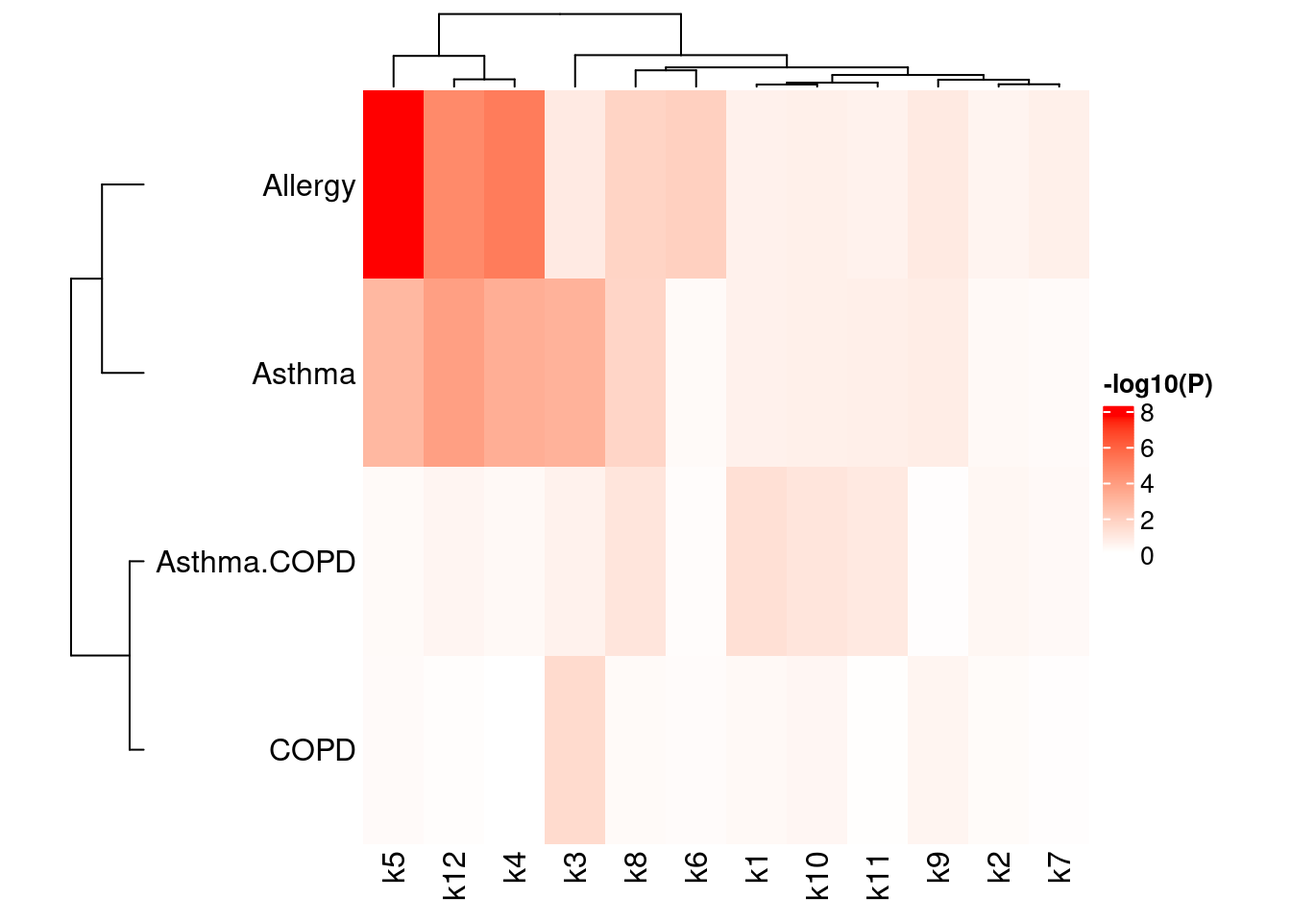
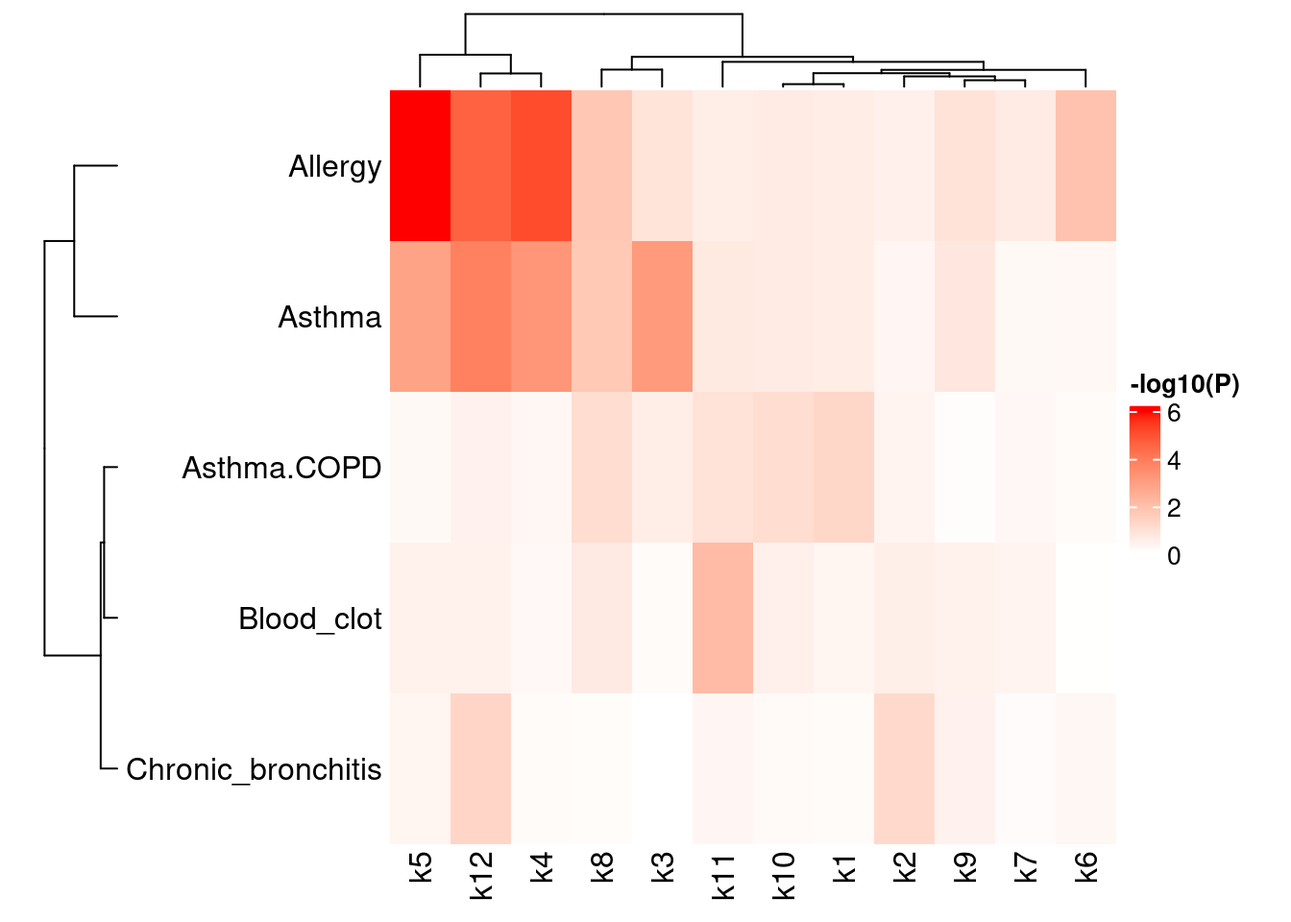
Build site.

diff --git a/docs/test_magma.html b/docs/test_magma.html
@@ -11,7 +11,7 @@
 
 <meta name="author" content="Jing Gu" />
 
-<meta name="date" content="2024-10-01" />
+<meta name="date" content="2024-10-02" />
 
 <title>A testrun for MAGMA</title>
 
@@ -370,7 +370,7 @@ div.tocify {
 
 <h1 class="title toc-ignore">A testrun for MAGMA</h1>
 <h4 class="author">Jing Gu</h4>
-<h4 class="date">2024-10-01</h4>
+<h4 class="date">2024-10-02</h4>
 
 </div>
 
@@ -399,7 +399,7 @@ class="glyphicon glyphicon-ok text-success" aria-hidden="true"></span>
 <div class="tab-content">
 <div id="summary" class="tab-pane fade in active">
 <p>
-<strong>Last updated:</strong> 2024-10-01
+<strong>Last updated:</strong> 2024-10-02
 </p>
 <p>
 <strong>Checks:</strong> <span
@@ -530,15 +530,15 @@ project makes it easier to run your code on other machines.</p>
 <div class="panel panel-default">
 <div class="panel-heading">
 <p class="panel-title">
-<a data-toggle="collapse" data-parent="#workflowr-checks" href="#strongRepositoryversionstrongahrefhttpsgithubcomj3gulunglymphscMultiomicstree99afc0f5e470e302561d449b36c2ced652826063targetblank99afc0fa">
+<a data-toggle="collapse" data-parent="#workflowr-checks" href="#strongRepositoryversionstrongahrefhttpsgithubcomj3gulunglymphscMultiomicstree9d263ca6f60d18e69ca9bf764b2b4f3f1138818btargetblank9d263caa">
 <span class="glyphicon glyphicon-ok text-success"
 aria-hidden="true"></span> <strong>Repository version:</strong>
-<a href="https://github.com/j3gu/lung_lymph_scMultiomics/tree/99afc0f5e470e302561d449b36c2ced652826063" target="_blank">99afc0f</a>
+<a href="https://github.com/j3gu/lung_lymph_scMultiomics/tree/9d263ca6f60d18e69ca9bf764b2b4f3f1138818b" target="_blank">9d263ca</a>
 </a>
 </p>
 </div>
 <div
[2 lines of base64/hex data omitted]
 class="panel-collapse collapse">
 <div class="panel-body">
 <p>
@@ -548,7 +548,7 @@ reproducibility.
 </p>
 <p>
 The results in this page were generated with repository version
-<a href="https://github.com/j3gu/lung_lymph_scMultiomics/tree/99afc0f5e470e302561d449b36c2ced652826063" target="_blank">99afc0f</a>.
+<a href="https://github.com/j3gu/lung_lymph_scMultiomics/tree/9d263ca6f60d18e69ca9bf764b2b4f3f1138818b" target="_blank">9d263ca</a>.
 See the <em>Past versions</em> tab to see a history of the changes made
 to the R Markdown and HTML files.
 </p>
@@ -565,7 +565,6 @@ were generated:
 Ignored files:
     Ignored:    analysis/.RData
     Ignored:    analysis/.Rhistory
-    Ignored:    analysis/figure/
 
 Untracked files:
     Untracked:  analysis/.ipynb_checkpoints/
@@ -576,6 +575,7 @@ Untracked files:
     Untracked:  analysis/u19_regulon_enrichment.Rmd
     Untracked:  analysis/ukb-a-446.log
     Untracked:  analysis/ukb-a-446_GO_immune.log
+    Untracked:  code/run_magma.sh
     Untracked:  code/run_magma/
     Untracked:  data/DA_peaks_Tsub_vs_others.RDS
     Untracked:  data/DA_peaks_by_cell_type.RDS
@@ -658,6 +658,57 @@ Message
 </tr>
 </thead>
 <tbody>
+<tr>
+<td>
+Rmd
+</td>
+<td>
+<a href="https://github.com/j3gu/lung_lymph_scMultiomics/blob/9d263ca6f60d18e69ca9bf764b2b4f3f1138818b/analysis/test_magma.Rmd" target="_blank">9d263ca</a>
+</td>
+<td>
+Jing Gu
+</td>
+<td>
+2024-10-02
+</td>
+<td>
+expanded to other immune diseases
+</td>
+</tr>
+<tr>
+<td>
+Rmd
+</td>
+<td>
+<a href="https://github.com/j3gu/lung_lymph_scMultiomics/blob/5cf8c154178788d712b7c960ba7e224ae09ede86/analysis/test_magma.Rmd" target="_blank">5cf8c15</a>
+</td>
+<td>
+Jing Gu
+</td>
+<td>
+2024-10-02
+</td>
+<td>
+expanded to other immune diseases
+</td>
+</tr>
+<tr>
+<td>
+html
+</td>
+<td>
+<a href="https://rawcdn.githack.com/j3gu/lung_lymph_scMultiomics/378411892c2e6b0296d3f407b98e3b98b171e62c/docs/test_magma.html" target="_blank">3784118</a>
+</td>
+<td>
+Jing Gu
+</td>
+<td>
+2024-10-01
+</td>
+<td>
+Build site.
+</td>
+</tr>
 <tr>
 <td>
 Rmd
@@ -948,6 +999,43 @@ full ones.</li>
 <div class="datatables html-widget html-fill-item" id="htmlwidget-e3dd2f708ffc37673119" style="width:100%;height:auto;"></div>
 <script type="application/json" data-for="htmlwidget-e3dd2f708ffc37673119">{"x":{"filter":"none","vertical":false,"data":[["1","2","3","4","5","6","7","8","9","10","11","12"],["k10","k11","k12","k1","k2","k3","k4","k5","k6","k7","k8","k9"],["SET","SET","SET","SET","SET","SET","SET","SET","SET","SET","SET","SET"],[766,724,685,1689,187,888,750,593,491,358,529,155],[0.082533,0.12265,0.10569,-0.050649,0.031389,0.11296,0.14575,0.21682,0.1278,0.070092,0.07594099999999999,0.17778],[0.017551,0.02539,0.02131,-0.015506,0.0033596,0.02576,0.030685,0.040796,0.021952,0.010324,0.013523,0.017341],[0.041514,0.040226,0.041287,0.028165,0.073703,0.036235,0.040046,0.043091,0.045679,0.049731,0.042142,0.079803],[0.023409,0.0011502,0.0052389,0.96392,0.3351,0.00091399,0.00013694,2.4567e-07,0.002576,0.07936600000000001,0.035781,0.012955]],"container":"<table class=\"display\">\n  <thead>\n    <tr>\n      <th> <\/th>\n      <th>VARIABLE<\/th>\n      <th>TYPE<\/th>\n      <th>NGENES<\/th>\n      <th>BETA<\/th>\n      <th>BETA_STD<\/th>\n      <th>SE<\/th>\n      <th>P<\/th>\n    <\/tr>\n  <\/thead>\n<\/table>","options":{"columnDefs":[{"className":"dt-right","targets":[3,4,5,6,7]},{"orderable":false,"targets":0},{"name":" ","targets":0},{"name":"VARIABLE","targets":1},{"name":"TYPE","targets":2},{"name":"NGENES","targets":3},{"name":"BETA","targets":4},{"name":"BETA_STD","targets":5},{"name":"SE","targets":6},{"name":"P","targets":7}],"order":[],"autoWidth":false,"orderClasses":false}},"evals":[],"jsHooks":[]}</script>
 <p><img src="figure/test_magma.Rmd/unnamed-chunk-6-2.png" width="672" style="display: block; margin: auto;" /></p>
+<p>
+<button type="button" class="btn btn-default btn-xs btn-workflowr btn-workflowr-fig" data-toggle="collapse" data-target="#fig-unnamed-chunk-6-2">
+Past versions of unnamed-chunk-6-2.png
+</button>
+</p>
+<div id="fig-unnamed-chunk-6-2" class="collapse">
+<div class="table-responsive">
+<table class="table table-condensed table-hover">
+<thead>
+<tr>
+<th>
+Version
+</th>
+<th>
+Author
+</th>
+<th>
+Date
+</th>
+</tr>
+</thead>
+<tbody>
+<tr>
+<td>
+<a href="https://github.com/j3gu/lung_lymph_scMultiomics/blob/378411892c2e6b0296d3f407b98e3b98b171e62c/docs/figure/test_magma.Rmd/unnamed-chunk-6-2.png" target="_blank">3784118</a>
+</td>
+<td>
+Jing Gu
+</td>
+<td>
+2024-10-01
+</td>
+</tr>
+</tbody>
+</table>
+</div>
+</div>
 </div>
 <div id="testing-on-top-100-genes-from-each-topic"
 class="section level3">
@@ -964,6 +1052,10 @@ alt="MAGMA controlling for type 1 error rates for gene-set analysis" /></p>
 <div id="summarizing-enrichment-results-by-traits"
 class="section level3">
 <h3>Summarizing enrichment results by traits</h3>
+<p>Lung related immune diseases from UK Biobank: Blood clot, DVT,
+emphysema (chronic bronchitis), asthma, rhinitis eczema/allergy
+diagnosed by doctor</p>
+<p>Sample size: 336,782.</p>
 <p>Instead of all DE genes, I used top 100 up-regulated genes ranked by
 z scores to test the enrichment for each topic across immune traits. For
 Asthma, now we see only k3, k4, k5 and k12 (4 out of 12) topics show
@@ -990,8 +1082,45 @@ This message can be suppressed by:
   suppressPackageStartupMessages(library(ComplexHeatmap))
 ========================================</code></pre>
 <div class="datatables html-widget html-fill-item" id="htmlwidget-9c8a3c9d2f6933833caa" style="width:100%;height:auto;"></div>
-<script type="application/json" data-for="htmlwidget-9c8a3c9d2f6933833caa">{"x":{"filter":"none","vertical":false,"data":[["1","2","3","4","5","6","7","8","9","10","11","12","13","14","15","16","17","18","19","20","21","22","23","24","25","26","27","28","29","30","31","32","33","34","35","36","37","38","39","40","41","42","43","44","45","46","47","48"],["Asthma","Asthma","Asthma","Asthma","Asthma","Asthma","Asthma","Asthma","Asthma","Asthma","Asthma","Asthma","Allergy","Allergy","Allergy","Allergy","Allergy","Allergy","Allergy","Allergy","Allergy","Allergy","Allergy","Allergy","COPD","COPD","COPD","COPD","COPD","COPD","COPD","COPD","COPD","COPD","COPD","COPD","Asthma/COPD","Asthma/COPD","Asthma/COPD","Asthma/COPD","Asthma/COPD","Asthma/COPD","Asthma/COPD","Asthma/COPD","Asthma/COPD","Asthma/COPD","Asthma/COPD","Asthma/COPD"],["k10","k11","k12","k1","k2","k3","k4","k5","k6","k7","k8","k9","k10","k11","k12","k1","k2","k3","k4","k5","k6","k7","k8","k9","k10","k11","k12","k1","k2","k3","k4","k5","k6","k7","k8","k9","k10","k11","k12","k1","k2","k3","k4","k5","k6","k7","k8","k9"],[0.11709,0.10652,0.11026,0.11226,0.10049,0.11051,0.11831,0.10728,0.10741,0.093942,0.10333,0.11077,0.12091,0.10999,0.11384,0.11592,0.10377,0.11415,0.12214,0.1107,0.1109,0.09700499999999999,0.1067,0.11438,0.099243,0.090611,0.09725200000000001,0.098687,0.097055,0.09250899999999999,0.10408,0.09846299999999999,0.10106,0.09753299999999999,0.099441,0.097576,0.097332,0.08364099999999999,0.089561,0.094883,0.080619,0.089796,0.09733600000000001,0.085784,0.088461,0.07869900000000001,0.081081,0.09475],[0.22491,0.2048,0.00014474,0.24919,0.5043,0.00075885,0.00055155,0.0013446,0.55702,0.60118,0.019129,0.16956,0.22138,0.27165,2.2962e-05,0.25108,0.33044,0.13559,7.4606e-06,1.7542e-08,0.012081,0.22042,0.016831,0.12772,0.41669,0.8276,0.73554,0.5067,0.60875,0.032504,0.92438,0.6021,0.66439,0.80219,0.59483,0.35562,0.082482,0.11796,0.37695,0.052548,0.4206,0.27004,0.51655,0.59372,0.7008,0.54796,0.083135,0.79687]],"container":"<table class=\"display\">\n  <thead>\n    <tr>\n      <th> <\/th>\n      <th>TRAIT<\/th>\n      <th>VARIABLE<\/th>\n      <th>SE<\/th>\n      <th>P<\/th>\n    <\/tr>\n  <\/thead>\n<\/table>","options":{"columnDefs":[{"className":"dt-right","targets":[3,4]},{"orderable":false,"targets":0},{"name":" ","targets":0},{"name":"TRAIT","targets":1},{"name":"VARIABLE","targets":2},{"name":"SE","targets":3},{"name":"P","targets":4}],"order":[],"autoWidth":false,"orderClasses":false}},"evals":[],"jsHooks":[]}</script>
+<script type="application/json" data-for="htmlwidget-9c8a3c9d2f6933833caa">{"x":{"filter":"none","vertical":false,"data":[["1","2","3","4","5","6","7","8","9","10","11","12","13","14","15","16","17","18","19","20","21","22","23","24","25","26","27","28","29","30","31","32","33","34","35","36","37","38","39","40","41","42","43","44","45","46","47","48","49","50","51","52","53","54","55","56","57","58","59","60"],["Asthma","Asthma","Asthma","Asthma","Asthma","Asthma","Asthma","Asthma","Asthma","Asthma","Asthma","Asthma","Allergy","Allergy","Allergy","Allergy","Allergy","Allergy","Allergy","Allergy","Allergy","Allergy","Allergy","Allergy","Blood_clot","Blood_clot","Blood_clot","Blood_clot","Blood_clot","Blood_clot","Blood_clot","Blood_clot","Blood_clot","Blood_clot","Blood_clot","Blood_clot","Chronic_bronchitis","Chronic_bronchitis","Chronic_bronchitis","Chronic_bronchitis","Chronic_bronchitis","Chronic_bronchitis","Chronic_bronchitis","Chronic_bronchitis","Chronic_bronchitis","Chronic_bronchitis","Chronic_bronchitis","Chronic_bronchitis","Asthma/COPD","Asthma/COPD","Asthma/COPD","Asthma/COPD","Asthma/COPD","Asthma/COPD","Asthma/COPD","Asthma/COPD","Asthma/COPD","Asthma/COPD","Asthma/COPD","Asthma/COPD"],["k10","k11","k12","k1","k2","k3","k4","k5","k6","k7","k8","k9","k10","k11","k12","k1","k2","k3","k4","k5","k6","k7","k8","k9","k10","k11","k12","k1","k2","k3","k4","k5","k6","k7","k8","k9","k10","k11","k12","k1","k2","k3","k4","k5","k6","k7","k8","k9","k10","k11","k12","k1","k2","k3","k4","k5","k6","k7","k8","k9"],[0.11709,0.10652,0.11026,0.11226,0.10049,0.11051,0.11831,0.10728,0.10741,0.093942,0.10333,0.11077,0.12091,0.10999,0.11384,0.11592,0.10377,0.11415,0.12214,0.1107,0.1109,0.09700499999999999,0.1067,0.11438,0.10476,0.089812,0.09148000000000001,0.095376,0.088214,0.09120399999999999,0.1002,0.09458800000000001,0.08820600000000001,0.08678900000000001,0.088293,0.099009,0.10464,0.09142599999999999,0.091803,0.096085,0.088284,0.090527,0.10165,0.09038400000000001,0.093306,0.086614,0.088994,0.099554,0.097332,0.08364099999999999,0.089561,0.094883,0.080619,0.089796,0.09733600000000001,0.085784,0.088461,0.07869900000000001,0.081081,0.09475],[0.22491,0.2048,0.00014474,0.24919,0.5043,0.00075885,0.00055155,0.0013446,0.55702,0.60118,0.019129,0.16956,0.22138,0.27165,2.2962e-05,0.25108,0.33044,0.13559,7.4606e-06,1.7542e-08,0.012081,0.22042,0.016831,0.12772,0.6434800000000001,0.49338,0.047248,0.7049,0.063331,0.94279,0.68127,0.44429,0.52355,0.72293,0.7335700000000001,0.38192,0.33004,0.0072252,0.35038,0.47749,0.29041,0.70383,0.58123,0.36607,0.91495,0.43589,0.21459,0.34264,0.082482,0.11796,0.37695,0.052548,0.4206,0.27004,0.51655,0.59372,0.7008,0.54796,0.083135,0.79687]],"container":"<table class=\"display\">\n  <thead>\n    <tr>\n      <th> <\/th>\n      <th>TRAIT<\/th>\n      <th>VARIABLE<\/th>\n      <th>SE<\/th>\n      <th>P<\/th>\n    <\/tr>\n  <\/thead>\n<\/table>","options":{"columnDefs":[{"className":"dt-right","targets":[3,4]},{"orderable":false,"targets":0},{"name":" ","targets":0},{"name":"TRAIT","targets":1},{"name":"VARIABLE","targets":2},{"name":"SE","targets":3},{"name":"P","targets":4}],"order":[],"autoWidth":false,"orderClasses":false}},"evals":[],"jsHooks":[]}</script>
 <p><img src="figure/test_magma.Rmd/unnamed-chunk-9-2.png" width="672" style="display: block; margin: auto;" /></p>
+<p>
+<button type="button" class="btn btn-default btn-xs btn-workflowr btn-workflowr-fig" data-toggle="collapse" data-target="#fig-unnamed-chunk-9-2">
+Past versions of unnamed-chunk-9-2.png
+</button>
+</p>
+<div id="fig-unnamed-chunk-9-2" class="collapse">
+<div class="table-responsive">
+<table class="table table-condensed table-hover">
+<thead>
+<tr>
+<th>
+Version
+</th>
+<th>
+Author
+</th>
+<th>
+Date
+</th>
+</tr>
+</thead>
+<tbody>
+<tr>
+<td>
+<a href="https://github.com/j3gu/lung_lymph_scMultiomics/blob/378411892c2e6b0296d3f407b98e3b98b171e62c/docs/figure/test_magma.Rmd/unnamed-chunk-9-2.png" target="_blank">3784118</a>
+</td>
+<td>
+Jing Gu
+</td>
+<td>
+2024-10-01
+</td>
+</tr>
+</tbody>
+</table>
+</div>
+</div>
 <!-- Genes with high Z-scores (p < 0.05) are found to show enrichment in the following gene sets: -->
 <!-- * Regulation of signal transduction (adj.P = 0.01) from GO -->
 <!--   - RORA, GATA3, CDC42SE2, SREBF2 -->
@@ -1101,7 +1230,7 @@ class="section level3">
 <p>Topic 5 specific genes are enriched for tissue-resident genes,
 Treg/Th17 differentiation, and Th17 immune response.</p>
 <div class="datatables html-widget html-fill-item" id="htmlwidget-cdceef25ea5e4ed46489" style="width:100%;height:auto;"></div>
-<script type="application/json" data-for="htmlwidget-cdceef25ea5e4ed46489">{"x":{"filter":"none","vertical":false,"data":[["1","2","3","4","5","6","7","8","9","10","11","12","13","14","15","16","17","18","19","20"],["GOBP_T_CELL_ACTIVATION_INVOLVED_IN_IMMUNE_RESPONSE","Tissue_resident_lymphocytes","GOBP_T_HELPER_17_CELL_DIFFERENTIATION","GOBP_T_HELPER_17_TYPE_IMMUNE_RESPONSE","GOBP_REGULATORY_T_CELL_DIFFERENTIATION","GOBP_NEGATIVE_REGULATION_OF_REGULATORY_T_CELL_DIFFERENTIATION","GOBP_POSITIVE_REGULATION_OF_T_HELPER_2_CELL_DIFFERENTIATION","GOBP_T_HELPER_2_CELL_DIFFERENTIATION","GOBP_B_CELL_ACTIVATION_INVOLVED_IN_IMMUNE_RESPONSE","GOBP_REGULATION_OF_T_HELPER_17_TYPE_IMMUNE_RESPONSE","GOBP_POSITIVE_REGULATION_OF_T_HELPER_17_TYPE_IMMUNE_RESPONSE","GOBP_REGULATION_OF_T_HELPER_17_CELL_DIFFERENTIATION","GOBP_POSITIVE_REGULATION_OF_T_HELPER_17_CELL_DIFFERENTIATION","GOBP_REGULATION_OF_T_HELPER_2_CELL_DIFFERENTIATION","GOBP_POSITIVE_REGULATION_OF_REGULATORY_T_CELL_DIFFERENTIATION","GOBP_REGULATION_OF_CD4_POSITIVE_CD25_POSITIVE_ALPHA_BETA_REGULATORY_T_CELL_DIFFERENTIATION","GOBP_POSITIVE_REGULATION_OF_T_HELPER_2_CELL_CYTOKINE_PRODUCTION","GOBP_NEGATIVE_REGULATION_OF_T_HELPER_17_TYPE_IMMUNE_RESPONSE","GOBP_T_HELPER_2_CELL_CYTOKINE_PRODUCTION","GOBP_NEGATIVE_REGULATION_OF_T_HELPER_2_CELL_DIFFERENTIATION"],["TNFSF4,STAT4,RORA,GATA3,STAT3,ZFPM1,SEMA4A,JAK1,EP300,ZC3H12A,PSEN1,IL4R,RELB,MALT1","CTLA4,RGCC,IL2RB,PDCD1,LMNA","RORA,STAT3,JAK1,EP300,ZC3H12A,MALT1","RORA,STAT3,ARID5A,JAK1,EP300,ZC3H12A,MALT1","TNFSF4,CTLA4,TGFB1,KLHL25,CD28,TOX","TNFSF4,CTLA4","TNFSF4,IL4R","TNFSF4,GATA3,IL4R","TNFSF4,PTK2B,DOCK10,ITM2A,TGFB1,PLCG2,CD28","ARID5A,EP300,ZC3H12A,MALT1","ARID5A,EP300,MALT1","EP300,ZC3H12A,MALT1","EP300,MALT1","TNFSF4,IL4R","TGFB1,KLHL25","KLHL25","GATA3","ZC3H12A","GATA3",""],[0,0.0001,0.0009,0.0012,0.0017,0.0109,0.0219,0.0223,0.0236,0.0254,0.0258,0.0426,0.0525,0.0616,0.1855,0.2166,0.2694,0.3186,0.4662,1],[4.0548,12.9057,6.0885,4.8558,5.3261,18.8396,11.3035,5.6586,2.6143,3.9064,5.3049,4.2432,6.2795,5.6511,2.6896,4.7029,3.5271,2.8214,1.6591,0]],"container":"<table class=\"display\">\n  <thead>\n    <tr>\n      <th> <\/th>\n      <th>GOTerm<\/th>\n      <th>GenesInSet<\/th>\n      <th>P<\/th>\n      <th>OR<\/th>\n    <\/tr>\n  <\/thead>\n<\/table>","options":{"columnDefs":[{"className":"dt-right","targets":[3,4]},{"orderable":false,"targets":0},{"name":" ","targets":0},{"name":"GOTerm","targets":1},{"name":"GenesInSet","targets":2},{"name":"P","targets":3},{"name":"OR","targets":4}],"order":[],"autoWidth":false,"orderClasses":false}},"evals":[],"jsHooks":[]}</script>
+<script type="application/json" data-for="htmlwidget-cdceef25ea5e4ed46489">{"x":{"filter":"none","vertical":false,"data":[["1","2","3","4","5","6","7","8","9","10","11","12","13","14","15","16","17","18","19","20"],["GOBP_T_CELL_ACTIVATION_INVOLVED_IN_IMMUNE_RESPONSE","Tissue_resident_lymphocytes","GOBP_T_HELPER_17_CELL_DIFFERENTIATION","GOBP_T_HELPER_17_TYPE_IMMUNE_RESPONSE","GOBP_REGULATORY_T_CELL_DIFFERENTIATION","GOBP_REGULATION_OF_T_HELPER_17_TYPE_IMMUNE_RESPONSE","GOBP_POSITIVE_REGULATION_OF_T_HELPER_17_TYPE_IMMUNE_RESPONSE","GOBP_REGULATION_OF_T_HELPER_17_CELL_DIFFERENTIATION","GOBP_POSITIVE_REGULATION_OF_T_HELPER_17_CELL_DIFFERENTIATION","GOBP_B_CELL_ACTIVATION_INVOLVED_IN_IMMUNE_RESPONSE","GOBP_T_HELPER_2_CELL_DIFFERENTIATION","GOBP_NEGATIVE_REGULATION_OF_REGULATORY_T_CELL_DIFFERENTIATION","GOBP_POSITIVE_REGULATION_OF_REGULATORY_T_CELL_DIFFERENTIATION","GOBP_POSITIVE_REGULATION_OF_T_HELPER_2_CELL_DIFFERENTIATION","GOBP_REGULATION_OF_CD4_POSITIVE_CD25_POSITIVE_ALPHA_BETA_REGULATORY_T_CELL_DIFFERENTIATION","GOBP_POSITIVE_REGULATION_OF_T_HELPER_2_CELL_CYTOKINE_PRODUCTION","GOBP_NEGATIVE_REGULATION_OF_T_HELPER_17_TYPE_IMMUNE_RESPONSE","GOBP_REGULATION_OF_T_HELPER_2_CELL_DIFFERENTIATION","GOBP_T_HELPER_2_CELL_CYTOKINE_PRODUCTION","GOBP_NEGATIVE_REGULATION_OF_T_HELPER_2_CELL_DIFFERENTIATION"],["STAT4,RORA,GATA3,STAT3,ZFPM1,SEMA4A,JAK1,EP300,ZC3H12A,PSEN1,IL4R,RELB,MALT1","CTLA4,RGCC,IL2RB,PDCD1,LMNA","RORA,STAT3,JAK1,EP300,ZC3H12A,MALT1","RORA,STAT3,ARID5A,JAK1,EP300,ZC3H12A,MALT1","CTLA4,TGFB1,KLHL25,CD28,TOX","ARID5A,EP300,ZC3H12A,MALT1","ARID5A,EP300,MALT1","EP300,ZC3H12A,MALT1","EP300,MALT1","PTK2B,DOCK10,ITM2A,TGFB1,PLCG2,CD28","GATA3,IL4R","CTLA4","TGFB1,KLHL25","IL4R","KLHL25","GATA3","ZC3H12A","IL4R","GATA3",""],[0.0001,0.0001,0.0009,0.0012,0.0092,0.0254,0.0258,0.0426,0.0525,0.06510000000000001,0.1251,0.16,0.1855,0.2166,0.2166,0.2694,0.3186,0.3419,0.4662,1],[3.7207,12.9057,6.0885,4.8558,4.2968,3.9064,5.3049,4.2432,6.2795,2.2081,3.5312,7.0547,2.6896,4.7029,4.7029,3.5271,2.8214,2.5649,1.6591,0]],"container":"<table class=\"display\">\n  <thead>\n    <tr>\n      <th> <\/th>\n      <th>GOTerm<\/th>\n      <th>GenesInSet<\/th>\n      <th>P<\/th>\n      <th>OR<\/th>\n    <\/tr>\n  <\/thead>\n<\/table>","options":{"columnDefs":[{"className":"dt-right","targets":[3,4]},{"orderable":false,"targets":0},{"name":" ","targets":0},{"name":"GOTerm","targets":1},{"name":"GenesInSet","targets":2},{"name":"P","targets":3},{"name":"OR","targets":4}],"order":[],"autoWidth":false,"orderClasses":false}},"evals":[],"jsHooks":[]}</script>
 </div>
 <div id="testing-on-genes-having-high-asthma-magma-z-scores"
 class="section level3">
@@ -1109,35 +1238,71 @@ class="section level3">
 <p>Input: Topic 5 genes with MAGMA Z score &gt;= 1.64, background genes
 for topic modeling (~17K) Enrichment test: Fisher’s exact test</p>
 <p>Topic 5 specific genes with high Asthma z scores are enriched for
-tissue-resident genes, Treg/Th17/Th2 differentiation, and Th17 immune
-response.</p>
+tissue-resident genes, Treg/Th17 differentiation, and T-cell activation
+involved in immune response. If the ligand of TNFRSF4 receptor included
+in the test set, Th2 differentiation would also pass the threshold.</p>
 <div class="datatables html-widget html-fill-item" id="htmlwidget-090d9e47ec4e036f35e9" style="width:100%;height:auto;"></div>
-<script type="application/json" data-for="htmlwidget-090d9e47ec4e036f35e9">{"x":{"filter":"none","vertical":false,"data":[["1","2","3","4","5","6","7","8","9","10","11","12","13","14","15","16","17","18","19","20"],["GOBP_T_CELL_ACTIVATION_INVOLVED_IN_IMMUNE_RESPONSE","GOBP_REGULATORY_T_CELL_DIFFERENTIATION","GOBP_T_HELPER_2_CELL_DIFFERENTIATION","Tissue_resident_lymphocytes","GOBP_NEGATIVE_REGULATION_OF_REGULATORY_T_CELL_DIFFERENTIATION","GOBP_POSITIVE_REGULATION_OF_T_HELPER_2_CELL_DIFFERENTIATION","GOBP_T_HELPER_17_CELL_DIFFERENTIATION","GOBP_REGULATION_OF_T_HELPER_2_CELL_DIFFERENTIATION","GOBP_T_HELPER_17_TYPE_IMMUNE_RESPONSE","GOBP_REGULATION_OF_CD4_POSITIVE_CD25_POSITIVE_ALPHA_BETA_REGULATORY_T_CELL_DIFFERENTIATION","GOBP_POSITIVE_REGULATION_OF_T_HELPER_2_CELL_CYTOKINE_PRODUCTION","GOBP_POSITIVE_REGULATION_OF_T_HELPER_17_CELL_DIFFERENTIATION","GOBP_T_HELPER_2_CELL_CYTOKINE_PRODUCTION","GOBP_POSITIVE_REGULATION_OF_T_HELPER_17_TYPE_IMMUNE_RESPONSE","GOBP_POSITIVE_REGULATION_OF_REGULATORY_T_CELL_DIFFERENTIATION","GOBP_REGULATION_OF_T_HELPER_17_CELL_DIFFERENTIATION","GOBP_REGULATION_OF_T_HELPER_17_TYPE_IMMUNE_RESPONSE","GOBP_B_CELL_ACTIVATION_INVOLVED_IN_IMMUNE_RESPONSE","GOBP_NEGATIVE_REGULATION_OF_T_HELPER_2_CELL_DIFFERENTIATION","GOBP_NEGATIVE_REGULATION_OF_T_HELPER_17_TYPE_IMMUNE_RESPONSE"],["GATA3,RORA,IL4R,TNFSF4,JAK1,EP300","TNFSF4,TOX,CTLA4,KLHL25","GATA3,IL4R,TNFSF4","IL2RB,CTLA4,PDCD1","TNFSF4,CTLA4","IL4R,TNFSF4","RORA,JAK1,EP300","IL4R,TNFSF4","RORA,JAK1,EP300","KLHL25","GATA3","EP300","GATA3","EP300","KLHL25","EP300","EP300","TNFSF4","",""],[0,0.0001,0.0001,0.0001,0.0003,0.0005999999999999999,0.0008,0.0019,0.0023,0.0377,0.0483,0.0587,0.09420000000000001,0.0992,0.1188,0.1188,0.166,0.367,1,1],[10.7833,22.2054,37.3555,43.0939,123.0514,73.8925,18.0809,36.9563,12.4476,30.5126,22.8748,18.3087,10.7716,10.1702,8.3241,8.3241,5.7182,2.2255,0,0]],"container":"<table class=\"display\">\n  <thead>\n    <tr>\n      <th> <\/th>\n      <th>GOTerm<\/th>\n      <th>GenesInSet<\/th>\n      <th>P<\/th>\n      <th>OR<\/th>\n    <\/tr>\n  <\/thead>\n<\/table>","options":{"columnDefs":[{"className":"dt-right","targets":[3,4]},{"orderable":false,"targets":0},{"name":" ","targets":0},{"name":"GOTerm","targets":1},{"name":"GenesInSet","targets":2},{"name":"P","targets":3},{"name":"OR","targets":4}],"order":[],"autoWidth":false,"orderClasses":false}},"evals":[],"jsHooks":[]}</script>
+<script type="application/json" data-for="htmlwidget-090d9e47ec4e036f35e9">{"x":{"filter":"none","vertical":false,"data":[["1","2","3","4","5","6","7","8","9","10","11","12","13","14","15","16","17","18","19","20"],["Tissue_resident_lymphocytes","GOBP_T_CELL_ACTIVATION_INVOLVED_IN_IMMUNE_RESPONSE","GOBP_T_HELPER_17_CELL_DIFFERENTIATION","GOBP_REGULATORY_T_CELL_DIFFERENTIATION","GOBP_T_HELPER_17_TYPE_IMMUNE_RESPONSE","GOBP_T_HELPER_2_CELL_DIFFERENTIATION","GOBP_NEGATIVE_REGULATION_OF_REGULATORY_T_CELL_DIFFERENTIATION","GOBP_POSITIVE_REGULATION_OF_T_HELPER_2_CELL_DIFFERENTIATION","GOBP_REGULATION_OF_CD4_POSITIVE_CD25_POSITIVE_ALPHA_BETA_REGULATORY_T_CELL_DIFFERENTIATION","GOBP_POSITIVE_REGULATION_OF_T_HELPER_2_CELL_CYTOKINE_PRODUCTION","GOBP_POSITIVE_REGULATION_OF_T_HELPER_17_CELL_DIFFERENTIATION","GOBP_REGULATION_OF_T_HELPER_2_CELL_DIFFERENTIATION","GOBP_T_HELPER_2_CELL_CYTOKINE_PRODUCTION","GOBP_POSITIVE_REGULATION_OF_T_HELPER_17_TYPE_IMMUNE_RESPONSE","GOBP_POSITIVE_REGULATION_OF_REGULATORY_T_CELL_DIFFERENTIATION","GOBP_REGULATION_OF_T_HELPER_17_CELL_DIFFERENTIATION","GOBP_REGULATION_OF_T_HELPER_17_TYPE_IMMUNE_RESPONSE","GOBP_NEGATIVE_REGULATION_OF_T_HELPER_2_CELL_DIFFERENTIATION","GOBP_B_CELL_ACTIVATION_INVOLVED_IN_IMMUNE_RESPONSE","GOBP_NEGATIVE_REGULATION_OF_T_HELPER_17_TYPE_IMMUNE_RESPONSE"],["IL2RB,CTLA4,PDCD1","GATA3,RORA,IL4R,JAK1,EP300","RORA,JAK1,EP300","TOX,CTLA4,KLHL25","RORA,JAK1,EP300","GATA3,IL4R","CTLA4","IL4R","KLHL25","GATA3","EP300","IL4R","GATA3","EP300","KLHL25","EP300","EP300","","",""],[0.0001,0.0004,0.0008,0.0011,0.0022,0.0042,0.0268,0.0374,0.0374,0.0478,0.0581,0.06320000000000001,0.09329999999999999,0.0982,0.1177,0.1177,0.1644,1,1,1],[43.5537,8.9017,18.2741,16.1847,12.5828,23.352,46.2349,30.8359,30.8359,23.1147,18.5046,16.8274,10.8861,10.2777,8.4087,8.4087,5.779,0,0,0]],"container":"<table class=\"display\">\n  <thead>\n    <tr>\n      <th> <\/th>\n      <th>GOTerm<\/th>\n      <th>GenesInSet<\/th>\n      <th>P<\/th>\n      <th>OR<\/th>\n    <\/tr>\n  <\/thead>\n<\/table>","options":{"columnDefs":[{"className":"dt-right","targets":[3,4]},{"orderable":false,"targets":0},{"name":" ","targets":0},{"name":"GOTerm","targets":1},{"name":"GenesInSet","targets":2},{"name":"P","targets":3},{"name":"OR","targets":4}],"order":[],"autoWidth":false,"orderClasses":false}},"evals":[],"jsHooks":[]}</script>
 </div>
 <div id="testing-on-genes-having-high-allergy-magma-z-scores"
 class="section level3">
 <h3>Testing on genes having high Allergy MAGMA Z scores</h3>
 <p>Input: Topic 5 genes with MAGMA Z score &gt;= 1.64, background genes
 for topic modeling (~17K) Enrichment test: Fisher’s exact test</p>
-<p>Topic 5 specific genes with high allergy z scores are enriched for T
-cell activation involved in immune response.</p>
+<p>Topic 5 specific genes with high allergy z scores are mainly enriched
+for T cell activation.</p>
 <div class="datatables html-widget html-fill-item" id="htmlwidget-3872b756936758f43822" style="width:100%;height:auto;"></div>
-<script type="application/json" data-for="htmlwidget-3872b756936758f43822">{"x":{"filter":"none","vertical":false,"data":[["1","2","3","4","5","6","7","8","9","10","11","12","13","14","15","16","17","18","19","20"],["GOBP_T_CELL_ACTIVATION_INVOLVED_IN_IMMUNE_RESPONSE","GOBP_T_HELPER_2_CELL_DIFFERENTIATION","GOBP_NEGATIVE_REGULATION_OF_REGULATORY_T_CELL_DIFFERENTIATION","GOBP_POSITIVE_REGULATION_OF_T_HELPER_2_CELL_DIFFERENTIATION","GOBP_REGULATION_OF_T_HELPER_2_CELL_DIFFERENTIATION","Tissue_resident_lymphocytes","GOBP_T_HELPER_17_CELL_DIFFERENTIATION","GOBP_REGULATORY_T_CELL_DIFFERENTIATION","GOBP_T_HELPER_17_TYPE_IMMUNE_RESPONSE","GOBP_POSITIVE_REGULATION_OF_T_HELPER_2_CELL_CYTOKINE_PRODUCTION","GOBP_POSITIVE_REGULATION_OF_T_HELPER_17_CELL_DIFFERENTIATION","GOBP_B_CELL_ACTIVATION_INVOLVED_IN_IMMUNE_RESPONSE","GOBP_T_HELPER_2_CELL_CYTOKINE_PRODUCTION","GOBP_POSITIVE_REGULATION_OF_T_HELPER_17_TYPE_IMMUNE_RESPONSE","GOBP_REGULATION_OF_T_HELPER_17_CELL_DIFFERENTIATION","GOBP_REGULATION_OF_T_HELPER_17_TYPE_IMMUNE_RESPONSE","GOBP_NEGATIVE_REGULATION_OF_T_HELPER_2_CELL_DIFFERENTIATION","GOBP_POSITIVE_REGULATION_OF_REGULATORY_T_CELL_DIFFERENTIATION","GOBP_REGULATION_OF_CD4_POSITIVE_CD25_POSITIVE_ALPHA_BETA_REGULATORY_T_CELL_DIFFERENTIATION","GOBP_NEGATIVE_REGULATION_OF_T_HELPER_17_TYPE_IMMUNE_RESPONSE"],["TNFSF4,IL4R,RORA,GATA3,EP300,SEMA4A","TNFSF4,IL4R,GATA3","TNFSF4,CTLA4","TNFSF4,IL4R","TNFSF4,IL4R","PDCD1,CTLA4","RORA,EP300","TNFSF4,CTLA4","RORA,EP300","GATA3","EP300","TNFSF4,DOCK10","GATA3","EP300","EP300","EP300","","","",""],[0.0001,0.0002,0.0004,0.0009,0.0028,0.005,0.0215,0.0265,0.0408,0.0585,0.07099999999999999,0.1061,0.1136,0.1195,0.1428,0.1984,1,1,1,1],[8.7422,30.4994,100.5427,60.413,30.2437,21.5911,9.4475,8.3947,6.5666,18.7448,14.9996,3.7224,8.821400000000001,8.3307,6.8146,4.6833,0,0,0,0]],"container":"<table class=\"display\">\n  <thead>\n    <tr>\n      <th> <\/th>\n      <th>GOTerm<\/th>\n      <th>GenesInSet<\/th>\n      <th>P<\/th>\n      <th>OR<\/th>\n    <\/tr>\n  <\/thead>\n<\/table>","options":{"columnDefs":[{"className":"dt-right","targets":[3,4]},{"orderable":false,"targets":0},{"name":" ","targets":0},{"name":"GOTerm","targets":1},{"name":"GenesInSet","targets":2},{"name":"P","targets":3},{"name":"OR","targets":4}],"order":[],"autoWidth":false,"orderClasses":false}},"evals":[],"jsHooks":[]}</script>
-</div>
-</div>
-<div id="gene-set-associations-for-known-immune-cell-markers"
-class="section level2">
-<h2>Gene-set associations for known immune cell markers</h2>
-<p>Most immune cell markers were obtained from Gene ontology. The
-tissue-resident genes were from the single-cell lung paper and ChatGPT.
-After multiple correction (adj.P &lt; 0.002), tissue-resident markers do
-not show significance for the gene-set association with Asthma. Neither
-do the genes involved in cell-cell adhesion or cell migration. The gene
-sets that are significantly enriched for higher association with Asthma
-risks are activation of T/B cells and T cell lineage
-differentiation.</p>
-<div class="datatables html-widget html-fill-item" id="htmlwidget-c22a6cbbe2221dfaf03f" style="width:100%;height:auto;"></div>
-<script type="application/json" data-for="htmlwidget-c22a6cbbe2221dfaf03f">{"x":{"filter":"none","vertical":false,"data":[["1","2","3","4","5","6","7","8","9","10","11","12","13","14","15","16","17","18","19","20","21","22","23","24","25","26","27","28","29","30","31","32","33"],["GOBP_CD4_POSITIVE_ALPHA_BETA_T_CELL_ACTIVATION","GOBP_T_CELL_ACTIVATION_INVOLVED_IN_IMMUNE_RESPONSE","GOBP_REGULATORY_T_CELL_DIFFERENTIATION","GOBP_T_HELPER_2_CELL_DIFFERENTIATION","GOBP_T_HELPER_17_CELL_DIFFERENTIATION","GOBP_T_HELPER_17_TYPE_IMMUNE_RESPONSE","GOBP_CD8_POSITIVE_ALPHA_BETA_T_CELL_ACTIVATION","GOBP_B_CELL_ACTIVATION_INVOLVED_IN_IMMUNE_RESPONSE","GOBP_POSITIVE_REGULATION_OF_REGULATORY_T_CELL_DIFFERENTIATION","GOBP_T_HELPER_2_CELL_CYTOKINE_PRODUCTION","GOBP_REGULATION_OF_T_HELPER_2_CELL_DIFFERENTIATION","GOBP_REGULATION_OF_T_HELPER_17_TYPE_IMMUNE_RESPONSE","GOBP_T_HELPER_17_CELL_LINEAGE_COMMITMENT","GOBP_REGULATION_OF_T_HELPER_17_CELL_DIFFERENTIATION","GOBP_POSITIVE_REGULATION_OF_T_HELPER_17_TYPE_IMMUNE_RESPONSE","GOBP_POSITIVE_REGULATION_OF_CHEMOKINE_PRODUCTION","GOBP_CHEMOKINE_PRODUCTION","GOBP_POSITIVE_REGULATION_OF_PROTEIN_LOCALIZATION_TO_MEMBRANE","GOBP_POSITIVE_REGULATION_OF_T_HELPER_17_CELL_DIFFERENTIATION","GOMF_CELL_ADHESION_MOLECULE_BINDING","GOBP_ESTABLISHMENT_OF_PROTEIN_LOCALIZATION_TO_MEMBRANE","GOBP_LYMPHOCYTE_CHEMOTAXIS","Tissue_resident_lymphocytes","GOBP_T_CELL_CHEMOTAXIS","GOBP_REGULATION_OF_PROTEIN_LOCALIZATION_TO_MEMBRANE","GOBP_REGULATION_OF_T_CELL_CHEMOTAXIS","GOBP_NEGATIVE_REGULATION_OF_CHEMOKINE_PRODUCTION","GOMF_CELL_ADHESION_MEDIATOR_ACTIVITY","GOBP_REGULATION_OF_LYMPHOCYTE_CHEMOTAXIS","GOBP_RESPONSE_TO_CHEMOKINE","GOBP_NEGATIVE_REGULATION_OF_PROTEIN_LOCALIZATION_TO_MEMBRANE","GOBP_POSITIVE_REGULATION_OF_LYMPHOCYTE_CHEMOTAXIS","GOMF_CELL_CELL_ADHESION_MEDIATOR_ACTIVITY"],[113,109,36,18,33,46,26,78,21,13,12,31,19,22,18,68,90,99,11,516,243,41,13,23,167,14,21,65,23,90,32,18,50],[0.74588,0.62221,0.81185,0.99476,0.65629,0.57137,0.73877,0.39787,0.74762,0.8461,0.81431,0.47443,0.62646,0.49754,0.48199,0.26063,0.21076,0.18512,0.44191,0.06984700000000001,0.084298,0.16535,0.24841,0.17094,0.040036,0.094218,0.053949,0.023967,-0.01664,-0.017203,-0.024107,-0.05569,-0.12835],[0.09666,0.099469,0.17518,0.24865,0.17098,0.14981,0.20262,0.11176,0.23254,0.30263,0.29835,0.17668,0.24439,0.20206,0.23116,0.12585,0.11011,0.098221,0.27409,0.045061,0.061269,0.16418,0.29465,0.22175,0.076011,0.29141,0.23024,0.13513,0.22713,0.12073,0.1636,0.26253,0.15776],["6.3e-15","2.0e-10","1.8e-06","3.2e-05","6.2e-05","6.9e-05","1.3e-04","1.9e-04","6.5e-04","2.6e-03","3.2e-03","3.6e-03","5.2e-03","6.9e-03","1.9e-02","1.9e-02","2.8e-02","3.0e-02","5.3e-02","6.1e-02","8.4e-02","1.6e-01","2.0e-01","2.2e-01","3.0e-01","3.7e-01","4.1e-01","4.3e-01","5.3e-01","5.6e-01","5.6e-01","5.8e-01","7.9e-01"]],"container":"<table class=\"display\">\n  <thead>\n    <tr>\n      <th> <\/th>\n      <th>VARIABLE<\/th>\n      <th>NGENES<\/th>\n      <th>BETA<\/th>\n      <th>SE<\/th>\n      <th>P<\/th>\n    <\/tr>\n  <\/thead>\n<\/table>","options":{"columnDefs":[{"className":"dt-right","targets":[2,3,4]},{"orderable":false,"targets":0},{"name":" ","targets":0},{"name":"VARIABLE","targets":1},{"name":"NGENES","targets":2},{"name":"BETA","targets":3},{"name":"SE","targets":4},{"name":"P","targets":5}],"order":[],"autoWidth":false,"orderClasses":false}},"evals":[],"jsHooks":[]}</script>
+<script type="application/json" data-for="htmlwidget-3872b756936758f43822">{"x":{"filter":"none","vertical":false,"data":[["1","2","3","4","5","6","7","8","9","10","11","12","13","14","15","16","17","18","19","20"],["GOBP_T_CELL_ACTIVATION_INVOLVED_IN_IMMUNE_RESPONSE","Tissue_resident_lymphocytes","GOBP_T_HELPER_2_CELL_DIFFERENTIATION","GOBP_T_HELPER_17_CELL_DIFFERENTIATION","GOBP_NEGATIVE_REGULATION_OF_REGULATORY_T_CELL_DIFFERENTIATION","GOBP_T_HELPER_17_TYPE_IMMUNE_RESPONSE","GOBP_POSITIVE_REGULATION_OF_T_HELPER_2_CELL_DIFFERENTIATION","GOBP_POSITIVE_REGULATION_OF_T_HELPER_2_CELL_CYTOKINE_PRODUCTION","GOBP_POSITIVE_REGULATION_OF_T_HELPER_17_CELL_DIFFERENTIATION","GOBP_REGULATION_OF_T_HELPER_2_CELL_DIFFERENTIATION","GOBP_T_HELPER_2_CELL_CYTOKINE_PRODUCTION","GOBP_POSITIVE_REGULATION_OF_T_HELPER_17_TYPE_IMMUNE_RESPONSE","GOBP_REGULATION_OF_T_HELPER_17_CELL_DIFFERENTIATION","GOBP_REGULATION_OF_T_HELPER_17_TYPE_IMMUNE_RESPONSE","GOBP_REGULATORY_T_CELL_DIFFERENTIATION","GOBP_B_CELL_ACTIVATION_INVOLVED_IN_IMMUNE_RESPONSE","GOBP_NEGATIVE_REGULATION_OF_T_HELPER_2_CELL_DIFFERENTIATION","GOBP_POSITIVE_REGULATION_OF_REGULATORY_T_CELL_DIFFERENTIATION","GOBP_REGULATION_OF_CD4_POSITIVE_CD25_POSITIVE_ALPHA_BETA_REGULATORY_T_CELL_DIFFERENTIATION","GOBP_NEGATIVE_REGULATION_OF_T_HELPER_17_TYPE_IMMUNE_RESPONSE"],["IL4R,RORA,GATA3,EP300,SEMA4A","PDCD1,CTLA4","IL4R,GATA3","RORA,EP300","CTLA4","RORA,EP300","IL4R","GATA3","EP300","IL4R","GATA3","EP300","EP300","EP300","CTLA4","DOCK10","","","",""],[0.0009,0.0049,0.0062,0.0212,0.0326,0.0402,0.0454,0.058,0.0704,0.0766,0.1127,0.1185,0.1417,0.1969,0.2231,0.4243,1,1,1,1],[7.2189,21.7854,19.0627,9.531000000000001,37.833,6.6242,25.1905,18.9068,15.1296,13.7583,8.898099999999999,8.4034,6.8736,4.7239,4.0846,1.8386,0,0,0,0]],"container":"<table class=\"display\">\n  <thead>\n    <tr>\n      <th> <\/th>\n      <th>GOTerm<\/th>\n      <th>GenesInSet<\/th>\n      <th>P<\/th>\n      <th>OR<\/th>\n    <\/tr>\n  <\/thead>\n<\/table>","options":{"columnDefs":[{"className":"dt-right","targets":[3,4]},{"orderable":false,"targets":0},{"name":" ","targets":0},{"name":"GOTerm","targets":1},{"name":"GenesInSet","targets":2},{"name":"P","targets":3},{"name":"OR","targets":4}],"order":[],"autoWidth":false,"orderClasses":false}},"evals":[],"jsHooks":[]}</script>
+<!-- ## Gene-set associations for known immune cell markers -->
+<!-- Most immune cell markers were obtained from Gene ontology. The tissue-resident genes were from the single-cell lung paper and ChatGPT. After multiple correction (adj.P < 0.002), tissue-resident markers do not show significance for the gene-set association with Asthma. Neither do the genes involved in cell-cell adhesion or cell migration. The gene sets that are significantly enriched for higher association with Asthma risks are activation of T/B cells and T cell lineage differentiation. -->
+<!-- ```{bash eval = FALSE} -->
+<!-- cd /home/jinggu/cluster/data/MAGMA/testrun -->
+<!-- source ~/.bashrc -->
+<!-- traitID="ukb-a-446" -->
+<!-- geneset=gene_sets/GO_gene_sets_MAGMA.txt -->
+<!-- magma \ -->
+<!--     --gene-results $traitID.genes.raw \ -->
+<!--     --set-annot ${geneset} \ -->
+<!--     --out ${traitID}_GO_enriched -->
+<!-- ``` -->
+<!-- ```{r} -->
+<!-- df_enriched <- read.table(paste0(workdir, "/results/ukb-a-446/ukb-a-446_GO_enriched.gsa.out"), -->
+<!--                     skip = 4, header = TRUE) -->
+<!-- tbl <- -->
+<!--   rbind( -->
+<!--     df_top %>% -->
+<!--       filter(NGENES > 10 & P < 0.05/12) %>% # correct for multiple testing -->
+<!--       select(VARIABLE, NGENES, BETA, SE, P), -->
+<!--     df_enriched %>% mutate(VARIABLE = FULL_NAME) %>% -->
+<!--       filter(NGENES > 10) %>% #& P < 0.05/33) %>% # correct for multiple testing 0.05/33 = 0.002 -->
+<!--       select(VARIABLE, NGENES, BETA, SE, P) %>%  -->
+<!--       arrange(P) %>% mutate(P = format(P, scientific = TRUE, digits = 2)) -->
+<!--   ) -->
+<!-- DT::datatable(tbl) -->
+<!-- #write.table(tbl, "../output/fastTopics/top100_topic_GO_immune.gsa.txt",  -->
+<!--             #quote = F, row.names = F, sep = "\t") -->
+<!-- ``` -->
+<!-- ```{r eval = FALSE} -->
+<!-- ### Perform permutation to obtain null p-values -->
+<!-- ncbi37<-fread("/home/jinggu/cluster/data/MAGMA/gene_loc/u19.fastTopics.gene.loc") -->
+<!-- B = 5000 -->
+<!-- for(i in 1:B){ -->
+<!--   gene_set = sample(ncbi37$V1, 700, replace = FALSE) -->
+<!--   write.table(matrix(c(paste0("set", i), gene_set), nrow = 1), -->
+<!--               sprintf("%s/set%s_geneset.txt", workdir, i),  -->
+<!--               quote = F, row.names = F, sep=" ", col.names = F) -->
+<!-- } -->
+<!-- ``` -->
+<!-- ```{r eval = FALSE} -->
+<!-- f_null <- read.table(paste0(workdir, "/ukb-a-446_permutated700.gsa.out"),  -->
+<!--                      skip = 3, header = T) -->
+<!-- f_perm <- unlist(lapply(f_reduced$BETA, function(i){sum(f_null$BETA >= i)/5000})) -->
+<!-- plot(y = -log10(f_reduced$P),  -->
+<!--      x = -log10(f_perm),  -->
+<!--      xlab = "-log10(P) after permutation", -->
+<!--      ylab = "-log10(P) before permutation") -->
+<!-- abline(a = 0, b = 1, col = "red") -->
+<!-- ``` -->
 <br>
 <p>
 <button type="button" class="btn btn-default btn-workflowr btn-workflowr-sessioninfo" data-toggle="collapse" data-target="#workflowr-sessioninfo" style="display: block;">
@@ -1193,6 +1358,7 @@ loaded via a namespace (and not attached):
 [67] fastmap_1.1.1       yaml_2.3.8          clue_0.3-65        
 [70] colorspace_2.1-0    cluster_2.1.6       knitr_1.46         
 [73] sass_0.4.9         </code></pre>
+</div>
 </div>
 </div>
 </div>
